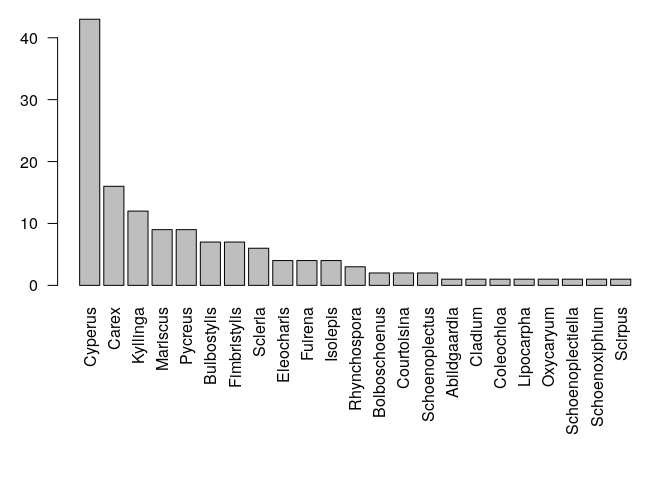
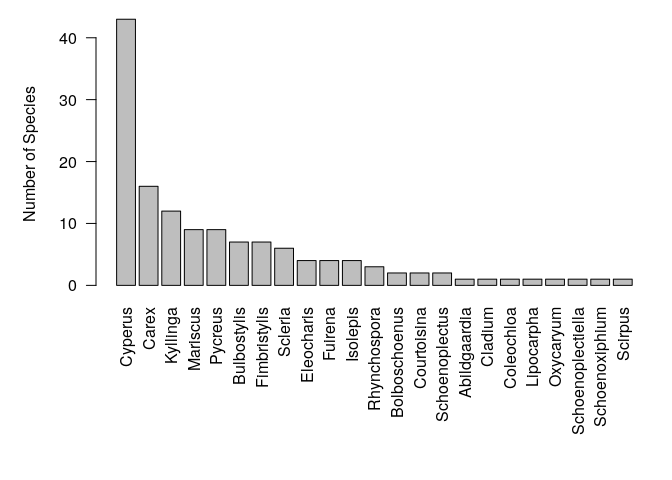
Deprecated functions properly documented

Changed region(s): [[0.125, 0.625, 0.9375, 0.9062], [0.0312, 0.0312, 0.4375, 0.625], [0.4688, 0.5312, 0.9375, 0.5938]]

diff --git a/README.md b/README.md
@@ -21,22 +21,23 @@ downloads](http://cranlogs.r-pkg.org/badges/grand-total/taxlist)](https://cran.r
 The aim of `taxlist` is to provide an object structure for taxonomic
 lists, as well as functions for handling and displaying the information
 contained in such objects. The structure of `taxlist` objects is
-inspired on data handled by
-[Turboveg](https://www.synbiosys.alterra.nl/turboveg) and on relational
-database models.
+inspired on the structure of data handled by
+[Turboveg](https://www.synbiosys.alterra.nl/turboveg) and relational
+databases.
 
 ![](README-figures/taxlist_model.png)<br/> **Figure:** Relational model
 for `taxlist` objects (see [Alvarez & Luebert
 2018](https://doi.org/10.3897/BDJ.6.e23635)).
 
-The functions in this package has being used to structure and clean data
-stored in [SWEA-Dataveg](https://kamapu.github.io/sweadataveg.html), a
+The functions in this package has being used to structure and
+cross-check consistency of data stored in
+[SWEA-Dataveg](https://kamapu.github.io/sweadataveg.html), a
 vegetation-plot database for Eastern Africa.
 
 ## Installing taxlist
 
 This package is available from the Comprehensive R Archive Network
-(**CRAN**) and can be directly installed in an R-session:
+(**CRAN**) and can be directly installed within an R-session:
 
 ``` r
 install.packages("taxlist", dependencies=TRUE)
@@ -53,10 +54,10 @@ install_github("kamapu/taxlist", build_vignette=TRUE)
 
 ## Building taxlist Objects
 
-Objects can be built step-by-step as in this example taking as reference
-the “Ferns of Chile” (original in Spanish: “Helechos de Chile”) by
-**Gunkel (1984)**. The first step will be to generate an empty `taxlist`
-object:
+Objects can be built step-by-step as in the following example. For it,
+we will use as reference the “Ferns of Chile” (original in Spanish:
+“Helechos de Chile”) by **Gunkel (1984)**. We will create an empty
+`taxlist` object using the function `new()`:
 
 ``` r
 library(taxlist)
@@ -73,15 +74,16 @@ summary(Fern)
 #> taxon views: 0
 ```
 
-We start defining the required taxonomic ranks. In such case, the levels
-have to be provided from the lowest to highest hierarchical level:
+Then we have to set the respective taxonomic ranks. In such case, the
+levels have to be provided from the lowest to highest hierarchical
+level:
 
 ``` r
 levels(Fern) <- c("variety","species","genus")
 ```
 
 For convenience, we start inserting taxa with their respective names in
-a top-down direction. We use then the function `add_concept()` to add a
+a top-down direction. We will use the function `add_concept()` to add a
 new taxon. Note that the arguments `TaxonName`, `AuthorName`, and
 `Level` are used to provide the name of the taxon, the authority of the
 name and the taxonomic rank, respectively.
@@ -132,10 +134,11 @@ Fern <- add_concept(Fern,
 ```
 
 You may have realized that the function `summary()` is applied to
-provide on the one side a display of meta-information for the `taxlist`
-object, and on the other side to show a detail of the taxa included in
-the object. In the later case adding the keyword `"all"` in the second
-argument will show all the handled taxa.
+provide on the one side a display of meta-information for the whole
+`taxlist` object, and on the other side to show a detail of the taxa
+included in the object. In the later case adding the keyword `"all"` as
+second argument, the summary will show a detailed information for every
+taxon included in the object.
 
 ``` r
 summary(Fern)
@@ -194,33 +197,33 @@ summary(Fern, "all")
 
 ## Similar Packages
 
-The package `taxlist` shares similar objectives than the package
-[`taxa`](https://github.com/ropensci/taxa), but sing different
+The package `taxlist` shares similar objectives with the package
+[`taxa`](https://github.com/ropensci/taxa), but uses different
 approaches for object oriented programming in **R**, namely `taxlist`
-uses S4 while `taxa` uses R6. Additionally, `taxa` is rather
-developer-oriented, while `taxlist` is rather user-oriented.
+applies **S4** while `taxa` uses **R6**. Additionally, `taxa` is rather
+developer-oriented, while `taxlist` is rather a user-oriented package.
 
 In following cases you may prefer to use `taxlist`:
 
-  - In the case that you like to handle taxonomic lists including
-    parent-child relationships and synonymy, especially when you need an
-    automatic check on the consistency of this information (i.e. using
-    the function `validObject()`) or when the information have to be
-    re-arranged during a session.
+  - When you need an automatic check on the consistency of information
+    regarding taxonomic ranks and parent-child relationships (parents
+    have to be of a higher rank then children), as well as
+    non-duplicated combinations of names and authors. Such checks are
+    done by the function `validObject()`.
   - When you foresee statistical assessments on taxonomy diversity or
     taxon properties (chorology, conservation status, functional traits,
     etc.).
   - When you seek to produce documents using **rmarkdown**, for instance
     guide books or check-lists. Also in article manuscripts taxonomic
-    names referring to a taxon concept can be easily formatted by the
+    names referring to a taxon concept can easily get formatted by the
     function `print_name()`.
   - When importing taxonomic lists from databases stored in
     [**Turboveg 2**](http://www.synbiosys.alterra.nl/turboveg).
   - When you seek to implement the package
-    [`vegtable`](https://CRAN.R-project.org/package=vegtable) on
+    [`vegtable`](https://CRAN.R-project.org/package=vegtable) for
     handling and assessing biodiversity records, especially
     vegetation-plot data. In that case, taxonomic lists will be
-    formatted as a `taxlist` object.
+    formatted by `taxlist` as a slot within a `vegtable` object.
 
 ## Rmarkdown Integration
 
@@ -311,8 +314,9 @@ Now, we can sort them to produce a nice bar plot.
 ``` r
 Cype_stat <- Cype_stat[order(Cype_stat$species_count, decreasing=TRUE),]
 
-par(las=2, mar=c(10,3,1,1))
-with(Cype_stat, barplot(species_count, names.arg=genus))
+par(las=2, mar=c(10,5,1,1))
+with(Cype_stat, barplot(species_count, names.arg=genus,
+                ylab="Number of Species"))
 ```
 
 ![](README-figures/genera_bar-1.png)<!-- -->

diff --git a/cran-comments.md b/cran-comments.md
@@ -1,5 +1,5 @@
 ## Test environments
-* ubuntu 12.04 (on travis-ci), R 3.1.2
+* ubuntu (on travis-ci)
 * win-builder (devel and release)
 
 ## R CMD check results
